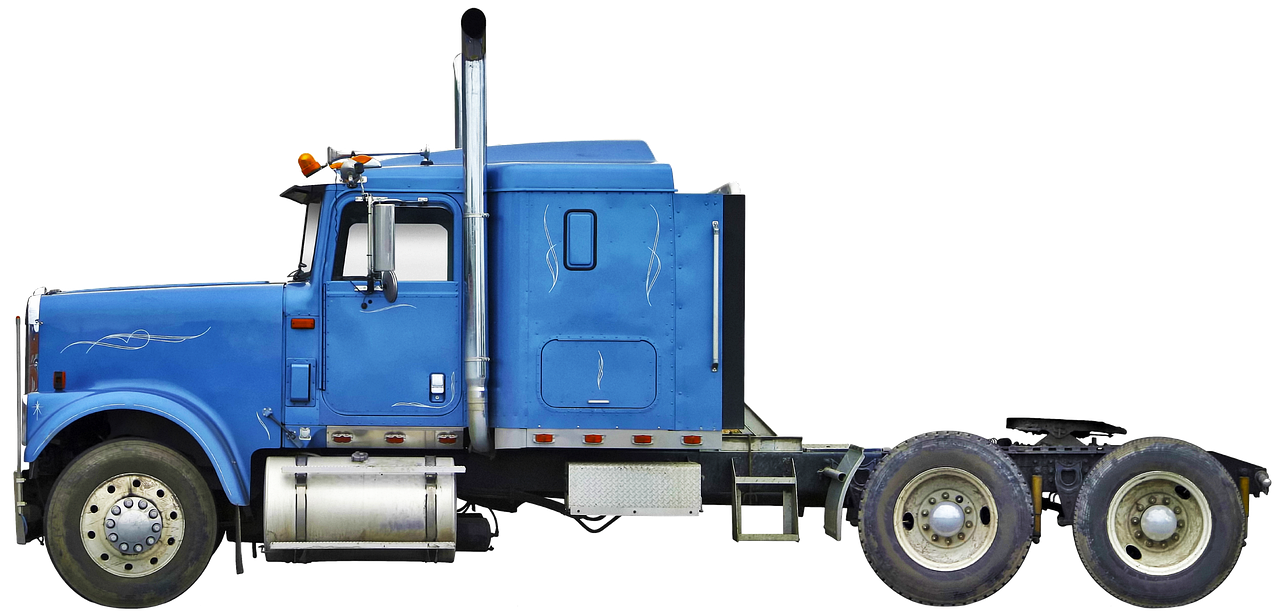
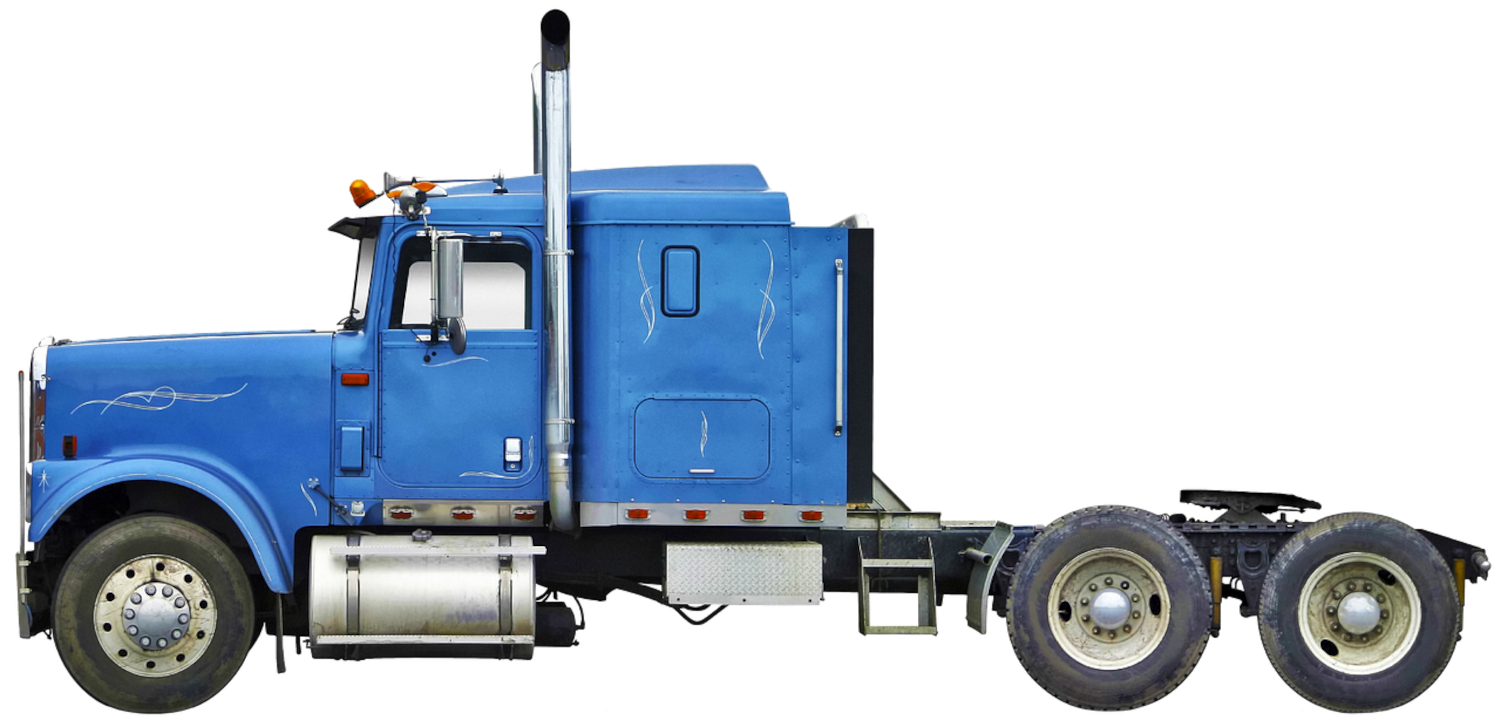
feat(fix): fix ServiceCar component
On mobile phones issue with height so I added not responsive unit to height px

diff --git a/src/features/servicesPage/Services.module.css b/src/features/servicesPage/Services.module.css
@@ -47,6 +47,13 @@ img {
   font-size: 1.6rem;
 }
 
+.btns {
+  display: flex;
+  align-items: center;
+  justify-content: space-between;
+  padding: 0 0.5rem;
+}
+
 .btn {
   display: inline-block;
   background: none;
@@ -59,21 +66,15 @@ img {
   justify-content: center;
   align-items: center;
 
-  width: 6.5rem;
-  height: 6.5rem;
+  width: 5.5rem;
+  height: 5.5rem;
 
   cursor: pointer;
-
-  position: absolute;
-
-  transform: translateY(-50%);
-
-  z-index: 2;
 }
 
 .btn svg {
   color: #fff;
-  font-size: 3rem;
+  font-size: 2.6rem;
 }
 
 .left {
@@ -121,39 +122,25 @@ img {
     margin-top: 2.5rem;
   }
 
-  .title {
-    padding-bottom: 6.5rem;
+  .btns {
+    padding: 0 10rem;
   }
 
-  .left {
-    left: 8rem;
-    top: 13.5rem;
-  }
-
-  .right {
-    right: 8rem;
-    top: 13.5rem;
+  .btn {
+    width: 7rem;
+    height: 7rem;
   }
 }
 
 @media only screen and (max-width: 32.5em) {
   .title {
     font-size: 5.6rem;
-    padding: 0 8rem 6.5rem;
+    padding: 0 8rem;
     line-height: 1.2;
   }
 
-  .left,
-  .right {
-    top: 11rem;
-  }
-
-  .left {
-    left: 1rem;
-  }
-
-  .right {
-    right: 1rem;
+  .btns {
+    padding: 2rem 9rem 0;
   }
 }
 
@@ -162,10 +149,5 @@ img {
     font-size: 5.6rem;
     padding: 0 8rem;
     line-height: 1.2;
-  }
-
-  .left,
-  .right {
-    top: 15rem;
   }
 }

diff --git a/src/features/servicesPage/Services.jsx b/src/features/servicesPage/Services.jsx
@@ -35,7 +35,8 @@ function Services() {
     <div className={styles.container}>
       <div className={styles.services}>
         <div className={styles.max_box}>
-          <p className={styles.title}>
+          <p className={styles.title}>{currentCarType.type}</p>
+          <div className={styles.btns}>
             <button
               onClick={handlePreviousService}
               className={`${styles.btn} ${styles.left}`}
@@ -49,8 +50,7 @@ function Services() {
             >
               <FaChevronRight />
             </button>
-            {currentCarType.type}
-          </p>
+          </div>
 
           {!isMedium ? <Service /> : <ServiceMobile />}
         </div>

diff --git a/src/features/servicesPage/components/serviceCar/ServiceCar.jsx b/src/features/servicesPage/components/serviceCar/ServiceCar.jsx
@@ -1,9 +1,20 @@
 import styles from "./ServiceCar.module.css";
 
 import { useService } from "../../contexts/ServiceContext";
+import { useMediaQuery } from "react-responsive";
 
 function ServiceCar() {
+  const isMedium = useMediaQuery({ query: "(max-width: 800px)" });
   const { currentImage, currentImageAlt } = useService();
+
+  if (isMedium)
+    return (
+      <div className={styles.boxCar}>
+        <figure className={styles.car}>
+          <img src={currentImage} alt={currentImageAlt} />
+        </figure>
+      </div>
+    );
 
   return (
     <figure className={styles.car}>

diff --git a/src/features/servicesPage/components/serviceCar/ServiceCar.module.css b/src/features/servicesPage/components/serviceCar/ServiceCar.module.css
@@ -11,25 +11,38 @@
   width: 90%;
 }
 
+.boxCar {
+  height: 320px;
+
+  display: flex;
+}
+
 @media only screen and (max-width: 60.3125em) {
   .car img {
-    width: 100%;
+    width: 95%;
   }
 }
 
 @media only screen and (max-width: 50em) {
   .car {
-    min-height: 30rem;
+    max-width: 75rem;
   }
 
   .car img {
-    width: 70%;
+    width: 100%;
+    height: auto;
   }
 }
 
 @media only screen and (max-width: 43.75em) {
   .car img {
-    width: 80%;
+    width: 90%;
+  }
+}
+
+@media only screen and (max-width: 32.5em) {
+  .boxCar {
+    height: 250px;
   }
 }
 

diff --git a/src/features/mobileNavbar/MobileNavbar.module.css b/src/features/mobileNavbar/MobileNavbar.module.css
@@ -12,7 +12,7 @@
   padding: 1rem;
   border-radius: 3px;
 
-  z-index: 1000;
+  z-index: 7000;
 
   background: none;
   outline: none;
@@ -25,7 +25,7 @@
 }
 
 .nav {
-  z-index: 9999;
+  z-index: 6000;
 
   background-color: rgba(22, 22, 22, 0.8);
   backdrop-filter: blur(6px);
